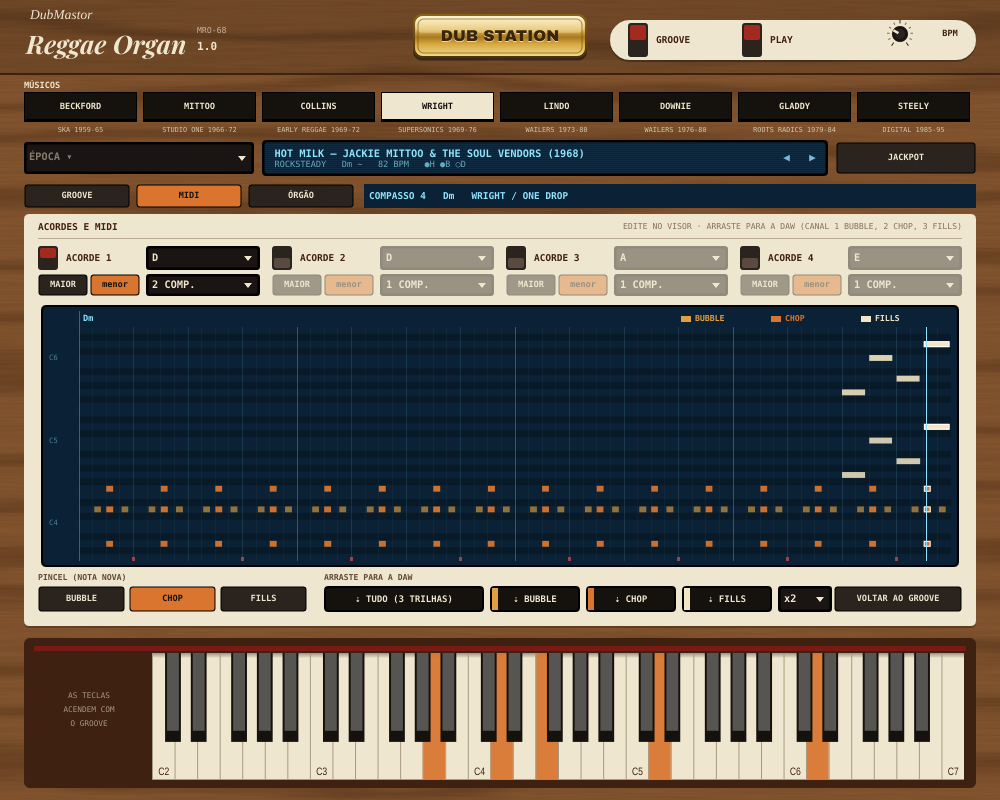
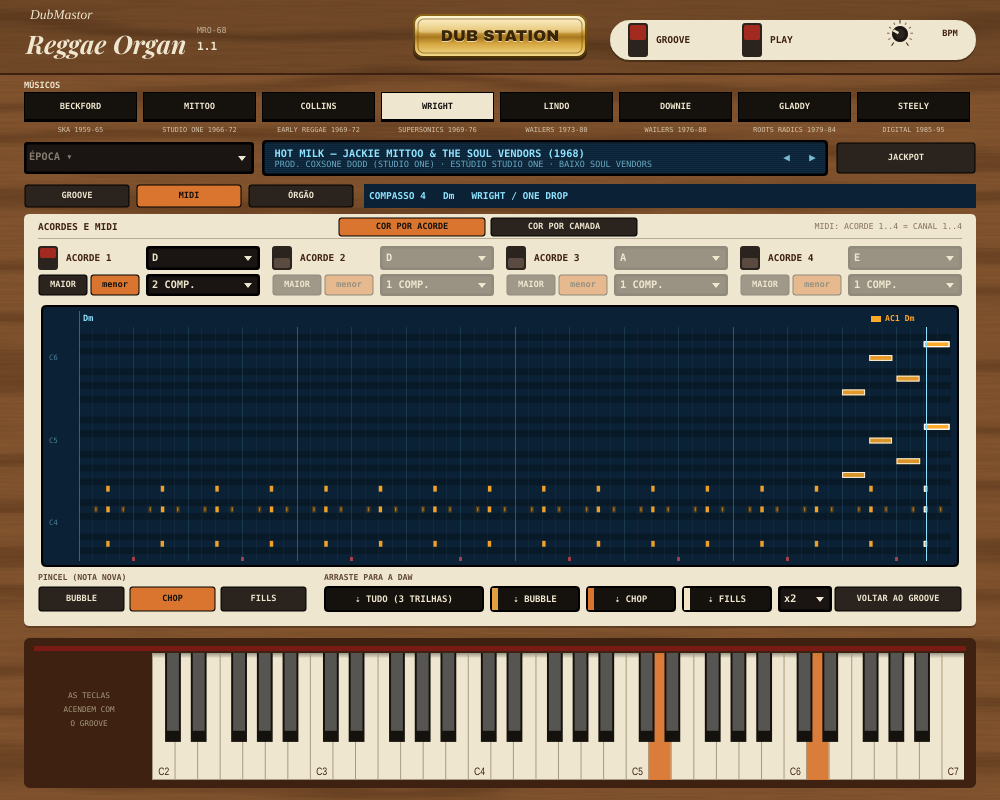
MRO-68: visor MIDI com COR POR ACORDE (canal 1..4, igual ao MRP-80) ou COR POR CAMADA; também no celular
Claude-Session: https://claude.ai/code/session_01DJAeyZsyaf8hh4txo87EyA

diff --git a/site/web/reggaeorgan/index.html b/site/web/reggaeorgan/index.html
@@ -165,8 +165,9 @@ canvas#roll{width:100%;height:300px;display:block;border-radius:6px;background:v
     <h2>ACORDES E MIDI <small>toque numa nota para apagar · toque no vazio para pôr (pincel)</small></h2>
     <div class="slots" id="slots"></div>
     <canvas id="roll"></canvas>
+    <div class="lbl">CORES DO VISOR E CANAIS DO MIDI</div><div class="row" id="colorBy"></div>
     <div class="lbl">PINCEL (NOTA NOVA)</div><div class="row" id="brush"></div>
-    <div class="lbl">BAIXAR O MIDI (canal 1 bubble, 2 chop, 3 fills)</div>
+    <div class="lbl" id="dlLbl">BAIXAR O MIDI</div>
     <div class="row dl"><button class="chip" data-l="-1">⇣ TUDO (3 TRILHAS)</button><button class="chip c0" data-l="0">⇣ BUBBLE</button><button class="chip c1" data-l="1">⇣ CHOP</button><button class="chip c2" data-l="2">⇣ FILLS</button>
       <select id="reps" class="chip" style="flex:0 0 70px"><option value="1">x1</option><option value="2" selected>x2</option><option value="4">x4</option></select>
       <button class="chip" id="backBtn">VOLTAR AO GROOVE</button></div>
@@ -310,9 +311,14 @@ function detectChord(held){
 const S = {mus:1,epoch:-1,bank:-1,grid:gridFrom(MUS[1].rh,MUS[1].lh),beat:0,nota:1,swing:.12,human:.3,ghost:.5,seed:1,
   bubbleOn:true,chopOn:true,fillsOn:true,bubbleLvl:.85,chopLvl:.75,fillStyle:0,fillEvery:4,chordSrc:0,bpm:80,
   leslie:0,drive:.2,echoOn:false,echoVol:.45,echoInt:.4,master:.8,bdb:[0,0,8,2,0,0,0,0,0],cdb:[8,8,8,0,0,0,0,0,0],
-  quickFeel:2,quickDen:2,page:0,brush:1,edits:null,
+  quickFeel:2,quickDen:2,page:0,brush:1,colorBy:0,edits:null,
   slots:[{root:9,minor:true,dur:1,on:true},{root:2,minor:true,dur:1,on:true},{root:9,minor:true,dur:1,on:true},{root:4,minor:true,dur:1,on:true}]};
 const chords=()=>S.slots.filter((s,i)=>i===0||s.on).map(s=>({root:s.root,minor:s.minor,beats:DURS[s.dur][0]}));
+// CORES por acorde (acorde 1..4 = canal 1..4, igual ao MRP-80) ou por camada (1 bubble, 2 chop, 3 fills)
+const CHORD_COL=['#ffa928','#ff6f4f','#6fd16f','#5fb8ff'];
+const byChord=()=>(S.colorBy|0)===0&&S.chordSrc===0;
+function slotForBeat(beat){ const on=S.slots.map((s,i)=>i).filter(i=>i===0||S.slots[i].on), cs=chords(), tb=totalBeats(cs); if(tb<=0) return -1;
+  let b=((beat%tb)+tb)%tb; for(let k=0;k<cs.length;k++){ const d=Math.max(1,cs[k].beats); if(b<d-1e-9) return on[k]; b-=d; } return on[on.length-1]; }
 function settings(){ return {grid:S.grid,beat:S.beat,noteSize:S.nota,swing:S.swing,human:S.human,ghost:S.ghost,seed:S.seed,bubbleOn:S.bubbleOn,chopOn:S.chopOn,fillsOn:S.fillsOn,
   bubbleVel:.85,chopVel:.9,fillVel:.8,fillStyle:S.fillStyle,fillEvery:S.fillEvery}; }
 function currentLoop(){ return S.edits || buildLoop(chords(),settings()); }
@@ -420,7 +426,8 @@ function midiFile(layer){
   const lp=currentLoop(), reps=+document.getElementById('reps').value, tpq=960, tracks=[[],[],[]];
   for(let r=0;r<reps;r++) for(const e of lp.events){ if(layer>=0&&e.layer!==layer) continue;
     const t0=Math.round((e.start+4*lp.bars*r)*tpq), t1=Math.round((e.start+e.length+4*lp.bars*r)*tpq);
-    tracks[e.layer].push([t0,0x90|e.layer,e.note,e.velocity],[t1,0x80|e.layer,e.note,0]); }
+    const sl=byChord()?slotForBeat(e.start):-1, ch=sl>=0?sl:e.layer;
+    tracks[e.layer].push([t0,0x90|ch,e.note,e.velocity],[t1,0x80|ch,e.note,0]); }
   const chunk=(id,data)=>[...id].map(c=>c.charCodeAt(0)).concat([(data.length>>>24)&255,(data.length>>>16)&255,(data.length>>>8)&255,data.length&255],data);
   const us=Math.round(60000000/S.bpm), meta=[0,0xff,0x51,3,(us>>16)&255,(us>>8)&255,us&255,0,0xff,0x58,4,4,2,24,8,0,0xff,0x2f,0];
   const names=['Reggae Organ - Bubble (mao esquerda)','Reggae Organ - Chop (mao direita)','Reggae Organ - Fills'];
@@ -517,8 +524,10 @@ function drawRoll(){
   g.fillStyle='rgba(229,72,77,.7)'; for(let b=1;b<beats;b+=2) g.fillRect(xOf(b)-1.5,y0+h-4,3,4);
   if(S.chordSrc===0){ const cs=chords(); let prev=null; g.font='bold 10px monospace';
     for(let b=0;b<beats;b++){ const c=chordForBeat(cs,b), k=c.root+(c.minor?'m':''); if(k!==prev){ g.fillStyle='rgba(143,227,255,.35)'; g.fillRect(xOf(b),2,1,H-4); g.fillStyle='#8fe3ff'; g.fillText(ROOTS[c.root]+(c.minor?'m':''),xOf(b)+4,13); prev=k; } } }
-  for(const e of lp.events){ const now=curPos>=0&&curPos>=e.start&&curPos<e.start+e.length; g.globalAlpha=now?1:.45+.55*e.velocity/127; g.fillStyle=LAYER_COL[e.layer];
-    g.fillRect(xOf(e.start),yOf(e.note),Math.max(3,xOf(e.start+e.length)-xOf(e.start)),Math.max(2,rh-.5)); }
+  for(const e of lp.events){ const now=curPos>=0&&curPos>=e.start&&curPos<e.start+e.length; g.globalAlpha=now?1:.45+.55*e.velocity/127; const sl=byChord()?slotForBeat(e.start):-1; g.fillStyle=sl>=0?CHORD_COL[sl]:LAYER_COL[e.layer];
+    const rx=xOf(e.start), ry=yOf(e.note), rw=Math.max(3,xOf(e.start+e.length)-xOf(e.start)), rhh=Math.max(2,rh-.5);
+    g.fillRect(rx,ry,rw,rhh);
+    if(sl>=0&&e.layer!==1){ g.strokeStyle=e.layer===2?'rgba(255,255,255,.85)':'rgba(0,0,0,.6)'; g.lineWidth=1; g.strokeRect(rx+.5,ry+.5,rw-1,rhh-1); } }
   g.globalAlpha=1;
   if(curPos>=0){ g.fillStyle='#8fe3ff'; g.fillRect(xOf(curPos),y0,1,h); }
   if(S.edits){ g.fillStyle='#ffc061'; g.font='bold 10px monospace'; g.fillText('MIDI EDITADO',x0+4,y0+h-8); }
@@ -544,7 +553,8 @@ function setPage(p){ S.page=p; [0,1,2].forEach(k=>$('p'+k).hidden=k!==p); refres
 function refresh(){
   [...$('mus').children].forEach((b,i)=>b.classList.toggle('on',i===S.mus));
   $('epoch').value=String(S.epoch);
-  ['tabs','feel','density','beat','nota','fillStyle','fillEvery','chordSrc','leslie','brush'].forEach(refreshChips);
+  ['tabs','feel','density','beat','nota','fillStyle','fillEvery','chordSrc','leslie','brush','colorBy'].forEach(refreshChips);
+  $('dlLbl').textContent=byChord()?'BAIXAR O MIDI (acorde 1..4 = canal 1..4)':'BAIXAR O MIDI (canal 1 bubble, 2 chop, 3 fills)';
   for(const k of ['bubbleOn','chopOn','fillsOn','echoOn']) $(k).classList.toggle('on',S[k]);
   $('backBtn').disabled=!S.edits; $('backBtn').classList.toggle('on',!!S.edits);
   sliders.forEach(f=>f()); renderSlots(); drawGrid(); if(S.page===1) drawRoll();
@@ -589,6 +599,7 @@ chips('fillEvery',['2','4','8'],()=>[2,4,8].indexOf(S.fillEvery),i=>{ S.fillEver
 chips('chordSrc',['DO PLUGIN','DO TECLADO'],()=>S.chordSrc,i=>{ S.chordSrc=i; });
 chips('leslie',['SEM LESLIE','LENTA','RÁPIDA'],()=>S.leslie,i=>{ S.leslie=i; });
 chips('brush',['BUBBLE','CHOP','FILLS'],()=>S.brush,i=>{ S.brush=i; });
+chips('colorBy',['COR POR ACORDE','COR POR CAMADA'],()=>S.colorBy|0,i=>{ S.colorBy=i; });
 const clearEd=()=>{ S.edits=null; };
 slider('bpm','bpm',v=>v); slider('swing','swing',undefined,clearEd); slider('human','human',undefined,clearEd); slider('ghost','ghost'); slider('seed','seed',v=>v,clearEd);
 slider('bubbleLvl','bubbleLvl'); slider('chopLvl','chopLvl'); slider('drive','drive'); slider('echoVol','echoVol'); slider('echoInt','echoInt'); slider('master','master');

diff --git a/ReggaeOrgan/Source/PluginEditor.cpp b/ReggaeOrgan/Source/PluginEditor.cpp
@@ -28,6 +28,12 @@ const juce::Colour colChop   { 0xffd9752e };   // mão direita
 const juce::Colour colFill   { 0xfff3e6c4 };   // fills
 
 juce::Colour layerColour (int l) { return l == mro::LayerBubble ? colBubble : (l == mro::LayerChop ? colChop : colFill); }
+// cores dos acordes 1..4: as mesmas do visor do MRP-80 (e o canal MIDI 1..4)
+juce::Colour chordColour (int slot)
+{
+    static const juce::Colour c[4] = { juce::Colour (0xffffa928), juce::Colour (0xffff6f4f), juce::Colour (0xff6fd16f), juce::Colour (0xff5fb8ff) };
+    return c[(size_t) juce::jlimit (0, 3, slot)];
+}
 
 juce::Colour drawbarColour (int i)
 {
@@ -446,14 +452,22 @@ void OrganRoll::paint (juce::Graphics& g)
     for (double b = 1.0; b < loopBeats; b += 2.0) g.fillRect (xOf (b) - 1.5f, area.getBottom() - 4.0f, 3.0f, 4.0f);
 
     const double pos = proc.playPos.load();
+    const bool byChord = proc.colourByChord();
     for (int i = 0; i < (int) events.size(); ++i)
     {
         const auto& e = events[(size_t) i];
         auto nr = noteRect (e).reduced (0.0f, rowH > 5.0f ? 0.5f : 0.0f);
         const bool now = pos >= 0.0 && pos >= e.start && pos < e.start + e.length;
         const float a = 0.45f + 0.55f * (float) e.velocity / 127.0f;
-        g.setColour (layerColour (e.layer).withAlpha (now ? 1.0f : a));
+        const int cs = byChord ? proc.chordSlotForBeat (e.start) : -1;
+        const auto col = cs >= 0 ? chordColour (cs) : layerColour (e.layer);
+        g.setColour (col.withAlpha (now ? 1.0f : a));
         g.fillRect (nr);
+        if (cs >= 0 && e.layer != mro::LayerChop)   // por acorde: a camada fica no contorno (bubble tracejado, fill claro)
+        {
+            g.setColour (e.layer == mro::LayerFill ? juce::Colours::white.withAlpha (0.85f) : juce::Colours::black.withAlpha (0.6f));
+            g.drawRect (nr, 1.0f);
+        }
         if (now || (i == dragIndex && drag != Drag::None)) { g.setColour (juce::Colours::white); g.drawRect (nr, 1.0f); }
     }
     if (pos >= 0.0)
@@ -464,13 +478,30 @@ void OrganRoll::paint (juce::Graphics& g)
     // legenda
     g.setFont (VintageLookAndFeel::mono (9.5f));
     auto leg = juce::Rectangle<float> (area.getRight() - 300.0f, header.getY(), 300.0f, header.getHeight());
-    const char* names[3] = { "BUBBLE", "CHOP", "FILLS" };
-    for (int k = 2; k >= 0; --k)
+    if (byChord)
     {
-        auto it = leg.removeFromRight (90.0f);
-        g.setColour (layerColour (k));
-        g.fillRect (it.removeFromLeft (10.0f).withSizeKeepingCentre (10.0f, 6.0f));
-        g.drawText (names[k], it.withTrimmedLeft (4.0f), juce::Justification::centredLeft);
+        const auto slotsOn = proc.getChordSlots();
+        const auto ch = proc.getChords();
+        leg = juce::Rectangle<float> (area.getRight() - 80.0f * (float) slotsOn.size(), header.getY(), 80.0f * (float) slotsOn.size(), header.getHeight());
+        for (int k = 0; k < (int) slotsOn.size() && k < (int) ch.size(); ++k)
+        {
+            auto it = leg.removeFromLeft (80.0f);
+            g.setColour (chordColour (slotsOn[(size_t) k]));
+            g.fillRect (it.removeFromLeft (10.0f).withSizeKeepingCentre (10.0f, 6.0f));
+            g.drawText ("AC" + juce::String (slotsOn[(size_t) k] + 1) + " " + mro::rootName (ch[(size_t) k].root) + (ch[(size_t) k].minor ? "m" : ""),
+                        it.withTrimmedLeft (4.0f), juce::Justification::centredLeft);
+        }
+    }
+    else
+    {
+        const char* names[3] = { "BUBBLE", "CHOP", "FILLS" };
+        for (int k = 2; k >= 0; --k)
+        {
+            auto it = leg.removeFromRight (90.0f);
+            g.setColour (layerColour (k));
+            g.fillRect (it.removeFromLeft (10.0f).withSizeKeepingCentre (10.0f, 6.0f));
+            g.drawText (names[k], it.withTrimmedLeft (4.0f), juce::Justification::centredLeft);
+        }
     }
     if (proc.hasEdits())
     {
@@ -623,6 +654,7 @@ ReggaeOrganEditor::ReggaeOrganEditor (ReggaeOrganProcessor& p)
     }
     addAndMakeVisible (roll);
     setupChips (brush, {}, { "BUBBLE", "CHOP", "FILLS" });
+    setupChips (colorBy, "colorBy", { "COR POR ACORDE", "COR POR CAMADA" });
     brush.onPick = [this] (int i) { roll.brush = i; };
     brush.current = [this] { return roll.brush; };
     dragAll = std::make_unique<MidiDragChip> (proc, -1, "TUDO (3 TRILHAS)");
@@ -764,6 +796,7 @@ std::vector<juce::Component*> ReggaeOrganEditor::pageComponents (int p)
                 v.push_back (c);
         v.push_back (&roll);
         addC (brush);
+        addC (colorBy);
         for (auto* d : { dragAll.get(), dragLayer[0].get(), dragLayer[1].get(), dragLayer[2].get() }) v.push_back (d);
         v.push_back (&repsBox);
         v.push_back (&backToGroove);
@@ -791,7 +824,7 @@ void ReggaeOrganEditor::setPage (int p)
 
 void ReggaeOrganEditor::timerCallback()
 {
-    for (auto* c : { &tabs, &feel, &density, &beat, &nota, &fillStyle, &fillEvery, &chordSrc, &leslie, &brush })
+    for (auto* c : { &tabs, &feel, &density, &beat, &nota, &fillStyle, &fillEvery, &chordSrc, &leslie, &brush, &colorBy })
         refreshChips (*c);
     const int mus = proc.getCurrentProgram();
     for (int i = 0; i < mro::NumMusicians; ++i) musBtn[i].setToggleState (i == mus, juce::dontSendNotification);
@@ -958,7 +991,7 @@ void ReggaeOrganEditor::renderBackground (juce::Graphics& g)
     }
     else if (page == 1)
     {
-        ivoryPanel (kContent, "ACORDES E MIDI", u8 ("EDITE NO VISOR \xc2\xb7 ARRASTE PARA A DAW (CANAL 1 BUBBLE, 2 CHOP, 3 FILLS)"));
+        ivoryPanel (kContent, "ACORDES E MIDI", proc.colourByChord() ? u8 ("MIDI: ACORDE 1..4 = CANAL 1..4") : u8 ("MIDI: CANAL 1 BUBBLE, 2 CHOP, 3 FILLS"));
         smallLabel ("PINCEL (NOTA NOVA)", kContent.getX() + 14, 572);
         smallLabel ("ARRASTE PARA A DAW", kContent.getX() + 300, 572);
     }
@@ -1048,6 +1081,7 @@ void ReggaeOrganEditor::resized()
             durBox[i].setBounds (cx + 108, y + 28, colW - 108, 22);
         }
         roll.setBounds (x, kContent.getY() + 88, w, 268);
+        layoutChips (colorBy, { x + 300, kContent.getY() + 3, 300, 20 }, 4);
         layoutChips (brush, { x, 586, 270, 26 }, 4);
         dragAll->setBounds (x + 286, 586, 160, 26);
         dragLayer[0]->setBounds (x + 452, 586, 90, 26);

diff --git a/ReggaeOrgan/Source/PluginProcessor.cpp b/ReggaeOrgan/Source/PluginProcessor.cpp
@@ -100,6 +100,8 @@ juce::AudioProcessorValueTreeState::ParameterLayout ReggaeOrganProcessor::create
     l.add (pct ("reverb", "Reverb", 0.15f));
     l.add (pct ("master", "Master", 0.80f));
     l.add (onOff ("maxOn", "Maximizer", true));
+    // CORES do visor e canais do MIDI: por acorde (igual ao MRP-80: acorde 1..4 = canal 1..4) ou por camada (1 bubble, 2 chop, 3 fills)
+    l.add (choice ("colorBy", "Cores do MIDI", { "Por acorde", "Por camada" }, 0));
     return l;
 }
 
@@ -262,6 +264,28 @@ std::vector<Chord> ReggaeOrganProcessor::getChords() const
         v.push_back (c);
     }
     return v;
+}
+
+std::vector<int> ReggaeOrganProcessor::getChordSlots() const
+{
+    std::vector<int> v;
+    for (int i = 0; i < numSlots; ++i)
+        if (i == 0 || get ("on" + juce::String (i + 1)) > 0.5f) v.push_back (i);
+    return v;
+}
+
+int ReggaeOrganProcessor::chordSlotForBeat (double beat) const
+{
+    if (get ("chordSrc") > 0.5f) return -1;
+    const auto chords = getChords();
+    const auto slots = getChordSlots();
+    const int k = chordIndexForBeat (chords, beat);
+    return k >= 0 && k < (int) slots.size() ? slots[(size_t) k] : -1;
+}
+
+bool ReggaeOrganProcessor::colourByChord() const
+{
+    return get ("colorBy") < 0.5f && get ("chordSrc") < 0.5f;
 }
 
 Settings ReggaeOrganProcessor::getSettings() const
@@ -487,14 +511,19 @@ bool ReggaeOrganProcessor::writeMidiFile (const juce::File& file, int layer) con
     const char* names[NumLayers] = { "Reggae Organ - Bubble (mao esquerda)", "Reggae Organ - Chop (mao direita)", "Reggae Organ - Fills" };
     for (int k = 0; k < NumLayers; ++k) tr[k].addEvent (juce::MidiMessage::textMetaEvent (3, names[k]), 0.0);
 
-    // cada camada no seu canal MIDI (1 bubble, 2 chop, 3 fills): na DAW cada uma aparece numa cor
+    // uma trilha por camada; o canal MIDI dá a cor na DAW:
+    //   CORES POR ACORDE  -> acorde 1..4 = canal 1..4 (igual ao MRP-80 e às outras machines)
+    //   CORES POR CAMADA  -> 1 bubble, 2 chop, 3 fills
+    const bool byChord = colourByChord();
     for (int r = 0; r < reps; ++r)
         for (const auto& e : loop.events)
         {
             if (layer >= 0 && e.layer != layer) continue;
             const double t0 = (e.start + 4.0 * loop.bars * r) * tpq;
-            tr[e.layer].addEvent (juce::MidiMessage::noteOn (e.layer + 1, e.note, (juce::uint8) e.velocity), t0);
-            tr[e.layer].addEvent (juce::MidiMessage::noteOff (e.layer + 1, e.note), t0 + e.length * tpq);
+            const int slot = byChord ? chordSlotForBeat (e.start) : -1;
+            const int ch = slot >= 0 ? slot + 1 : e.layer + 1;
+            tr[e.layer].addEvent (juce::MidiMessage::noteOn (ch, e.note, (juce::uint8) e.velocity), t0);
+            tr[e.layer].addEvent (juce::MidiMessage::noteOff (ch, e.note), t0 + e.length * tpq);
         }
 
     juce::MidiFile mf;
@@ -562,7 +591,11 @@ void ReggaeOrganProcessor::setStateInformation (const void* data, int sizeInByte
                 if (! ev.empty()) setEdits (ev, (int) t.getProperty ("bars", 1));
                 tree.removeChild (t, nullptr);
             }
+            bool hadColorBy = false;
+            for (const auto& c : tree) hadColorBy |= c.getProperty ("id").toString() == "colorBy";
             apvts.replaceState (tree);
+            if (! hadColorBy)   // projeto da 1.0: continua com as cores/canais por camada
+                if (auto* prm = apvts.getParameter ("colorBy")) prm->setValueNotifyingHost (1.0f);
         }
 }
 

diff --git a/ReggaeOrgan/Source/GrooveEngine.h b/ReggaeOrgan/Source/GrooveEngine.h
@@ -348,6 +348,22 @@ inline int totalBeats (const std::vector<Chord>& chords)
     return n;
 }
 
+// posição (0, 1, 2...) do acorde que soa no tempo "beat" (a lista repete se o loop for maior)
+inline int chordIndexForBeat (const std::vector<Chord>& chords, double beat)
+{
+    int tb = 0;
+    for (auto& c : chords) tb += std::max (1, c.beats);
+    if (tb <= 0) return -1;
+    double b = std::fmod (beat, (double) tb);
+    if (b < 0) b += tb;
+    for (int i = 0; i < (int) chords.size(); ++i)
+    {
+        if (b < std::max (1, chords[(size_t) i].beats) - 1.0e-9) return i;
+        b -= std::max (1, chords[(size_t) i].beats);
+    }
+    return (int) chords.size() - 1;
+}
+
 inline const Chord& chordForBeat (const std::vector<Chord>& chords, int beat)
 {
     static const Chord fallback;

diff --git a/ReggaeOrgan/Source/PluginProcessor.h b/ReggaeOrgan/Source/PluginProcessor.h
@@ -63,6 +63,9 @@ public:
     float get (const juce::String& id) const { return apvts.getRawParameterValue (id)->load(); }
     void setParam (const juce::String& id, float value);
     std::vector<mro::Chord> getChords() const;
+    std::vector<int> getChordSlots() const;           // ACORDE 1..4 (0..3) de cada acorde de getChords()
+    int chordSlotForBeat (double beat) const;         // -1 = sem acorde do plugin (acordes do teclado)
+    bool colourByChord() const;                       // CORES: por acorde (canal 1..4) ou por camada (canal 1..3)
     mro::Settings getSettings() const;
     double exportBpm() const;
 

diff --git a/ReggaeOrgan/Source/PluginEditor.h b/ReggaeOrgan/Source/PluginEditor.h
@@ -209,6 +209,7 @@ private:
     std::unique_ptr<APVTS::ButtonAttachment> slotOnAtt[ReggaeOrganProcessor::numSlots];
     OrganRoll roll;
     Chips brush;
+    Chips colorBy;   // CORES: por acorde ou por camada (visor e canais do MIDI)
     std::unique_ptr<MidiDragChip> dragAll, dragLayer[3];
     juce::ComboBox repsBox;
     std::unique_ptr<APVTS::ComboBoxAttachment> repsAtt;

diff --git a/ReggaeOrgan/RELEASE_NOTES.md b/ReggaeOrgan/RELEASE_NOTES.md
@@ -2,6 +2,7 @@
 
 - **Luzes D B R** no banco de riddims, nesta ordem: **D** = bateria, **B** = baixo, **R** = riddim (a harmonia da música; antes era o H). Acesa = a parte veio da gravação original
 - O órgão agora mora só aqui: o antigo Reggae Keys virou o **Mastor Reggae Piano MRP-80** (só piano). Toque o skank no MRP-80 e o órgão no MRO-68, cada MIDI na trilha do seu plugin
+- **CORES no visor MIDI**: COR POR ACORDE (igual ao MRP-80: cada acorde numa cor e, no MIDI, acorde 1..4 = canal 1..4; a camada fica no contorno da nota) ou COR POR CAMADA (como na 1.0: canal 1 bubble, 2 chop, 3 fills). Projetos da 1.0 abrem por camada. Também na versão para celular
 - **Duração da nota: 1/64 (padrão) ou 1/32** — saíram o 1/16 e o 1/8, para o órgão ficar sempre curto e no contratempo (projeto antigo em 1/16 ou 1/8 abre em 1/64)
 - **Banco de riddims filtrado:** só as 321 músicas com o riddim (a harmonia) da gravação original (luz R acesa); as setas do visor também só passam por elas
 - Versão para celular 1.1
